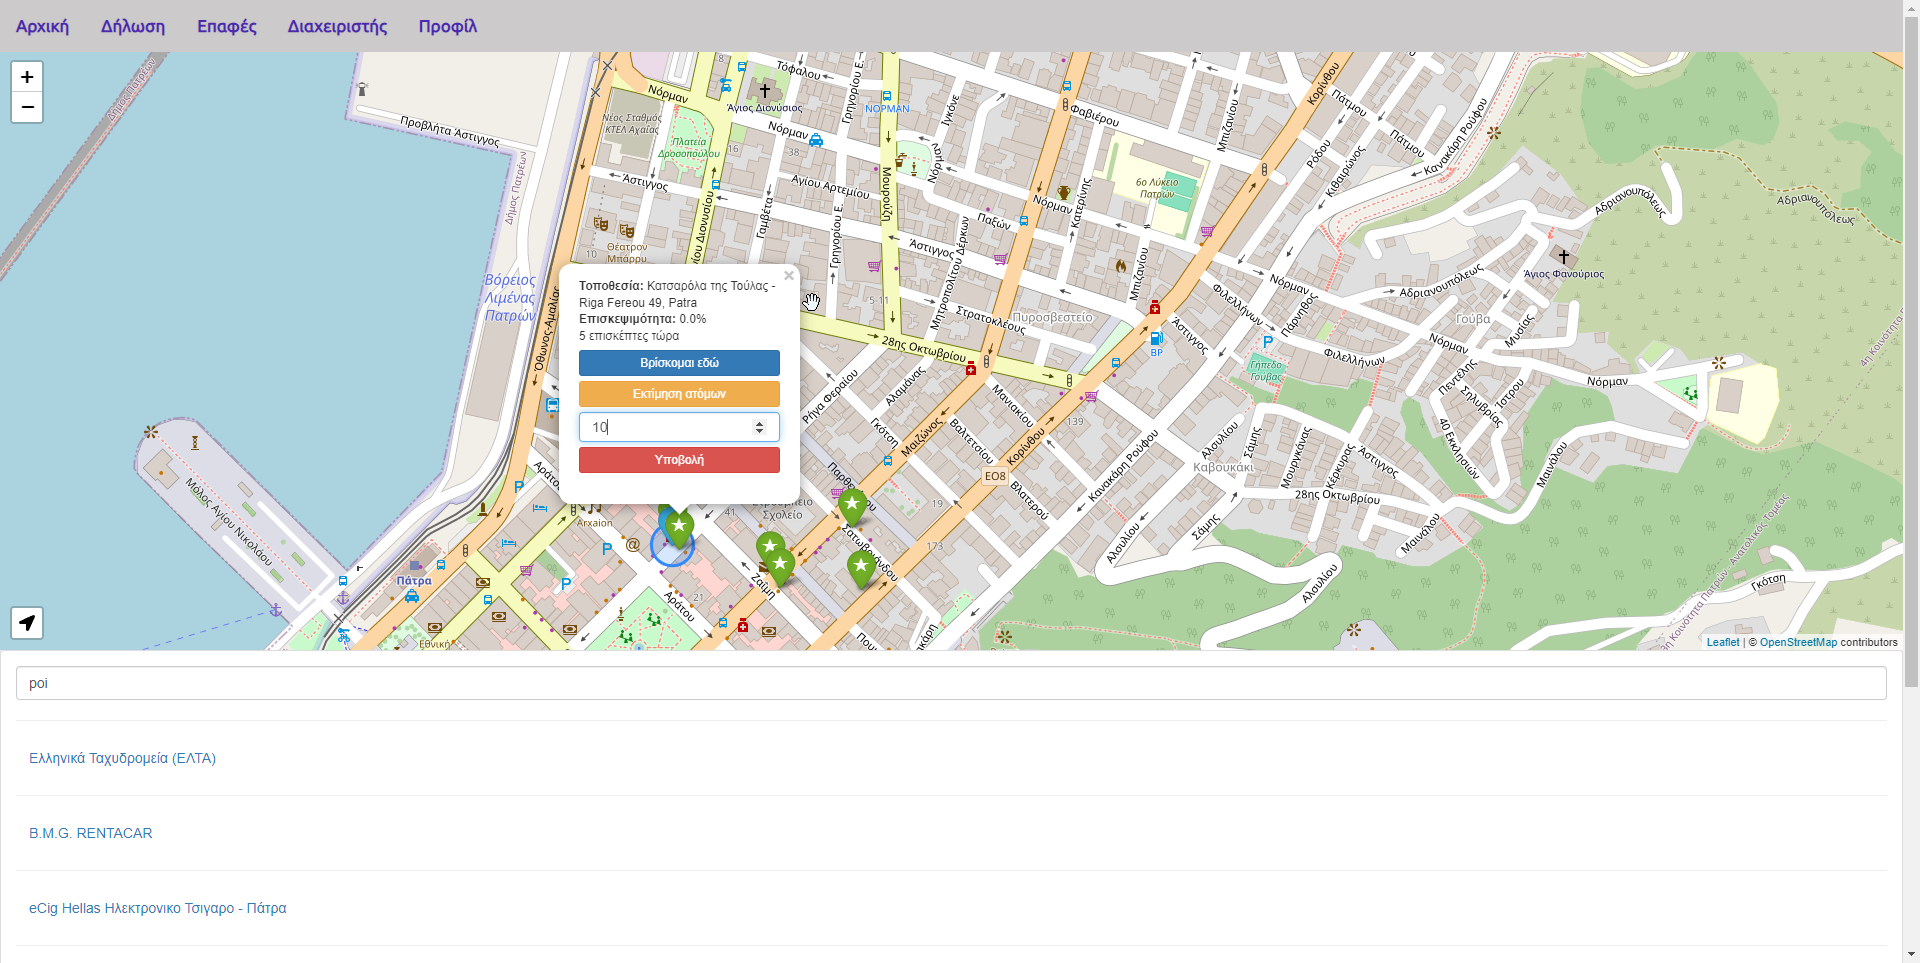
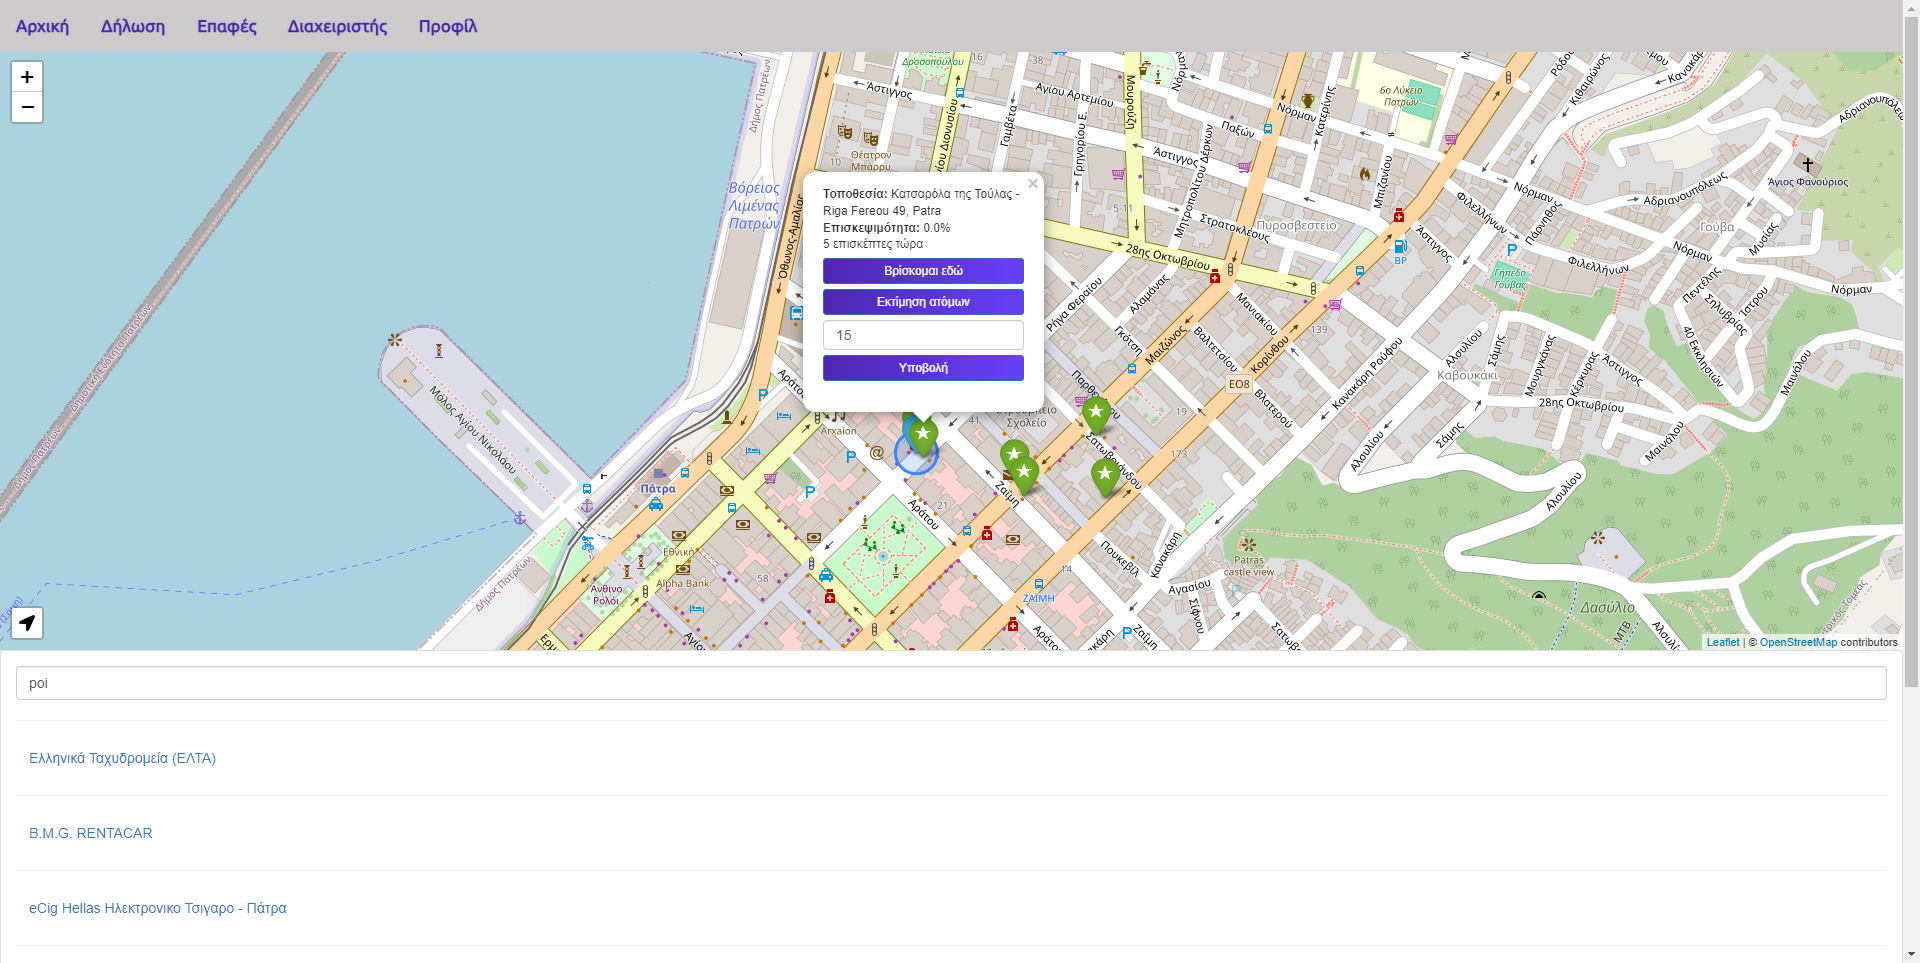
changed button styles

diff --git a/public/map.js b/public/map.js
@@ -155,19 +155,19 @@ function createPopupContent(POIdata, averagePop3hr) {
         <b>Τοποθεσία: </b>${POIdata.name} - ${POIdata.address}
         <br><b>Επισκεψιμότητα: </b>${averagePop3hr.toFixed(1)}%
         <br>${visitText}
-        <button id="insertbut_${POIdata.id}" style="padding: 3px; margin-top: 5px" class="btn btn-primary btn-block btn-sm" data-toggle="collapse" data-target="#demo_${POIdata.id}" disabled>Βρίσκομαι εδώ</button>`;
+        <button id="insertbut_${POIdata.id}" style="padding: 3px; margin-top: 5px; background: linear-gradient(to right, #4c27b0, #6840fb);" class="btn btn-primary btn-block btn-sm" data-toggle="collapse" data-target="#demo_${POIdata.id}" disabled>Βρίσκομαι εδώ</button>`;
 
     return `
         ${popupContent2}
         <div id="demo_${POIdata.id}" class="collapse">
             <form action="/visit" method="POST" onsubmit="return confirm('Είστε σίγουροι ότι θέλετε να καταχωρήσετε την επίσκεψη;');">
-                <button style="padding: 3px; margin-top: 5px" class="btn btn-warning btn-block btn-sm" type="button" data-toggle="collapse" data-target="#demo2_${POIdata.id}"/>Εκτίμηση ατόμων</button>
+                <button style="padding: 3px; margin-top: 5px; background: linear-gradient(to right, #4c27b0, #6840fb);" class="btn btn-primary btn-block btn-sm" type="button" data-toggle="collapse" data-target="#demo2_${POIdata.id}"/>Εκτίμηση ατόμων</button>
                 <div id="demo2_${POIdata.id}" class="collapse">
                     <input style="height: 30px; margin-top: 5px;" class="form-control" type="number" min="1" name="ppl" id="ppl" />
                     <input class="form-control" type="hidden" name="poiname" id="poiname" value="${POIdata.name}" />
                     <input class="form-control" type="hidden" name="poiid" id="poiid" value="${POIdata.id}" />
                 </div>
-                <input style="padding: 3px; margin-top: 5px" class="btn btn-danger btn-block btn-sm" type="submit" name="submit" id="submit" value="Υποβολή"/><br/>
+                <input style="padding: 3px; margin-top: 5px; background: linear-gradient(to right, #4c27b0, #6840fb);" class="btn btn-primary btn-block btn-sm" type="submit" name="submit" id="submit" value="Υποβολή"/><br/>
             </form>
         </div>`;
 }
